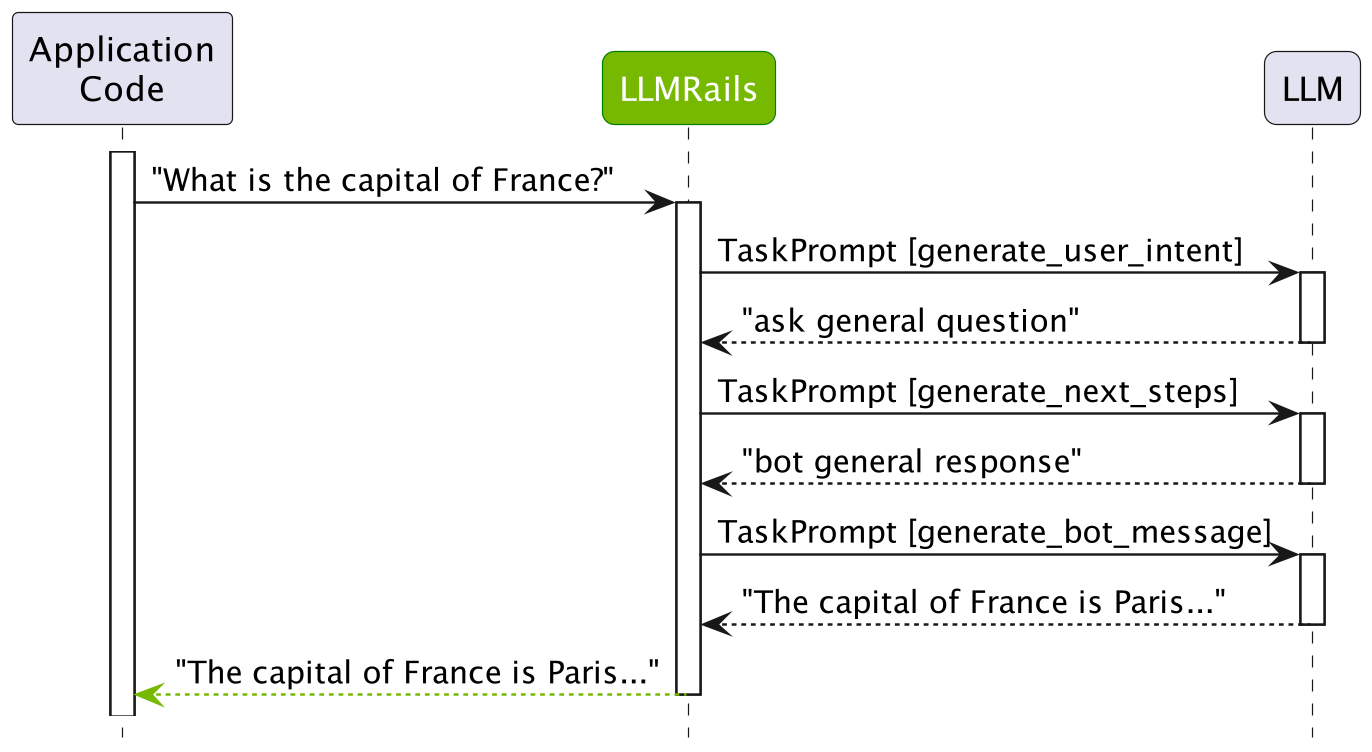
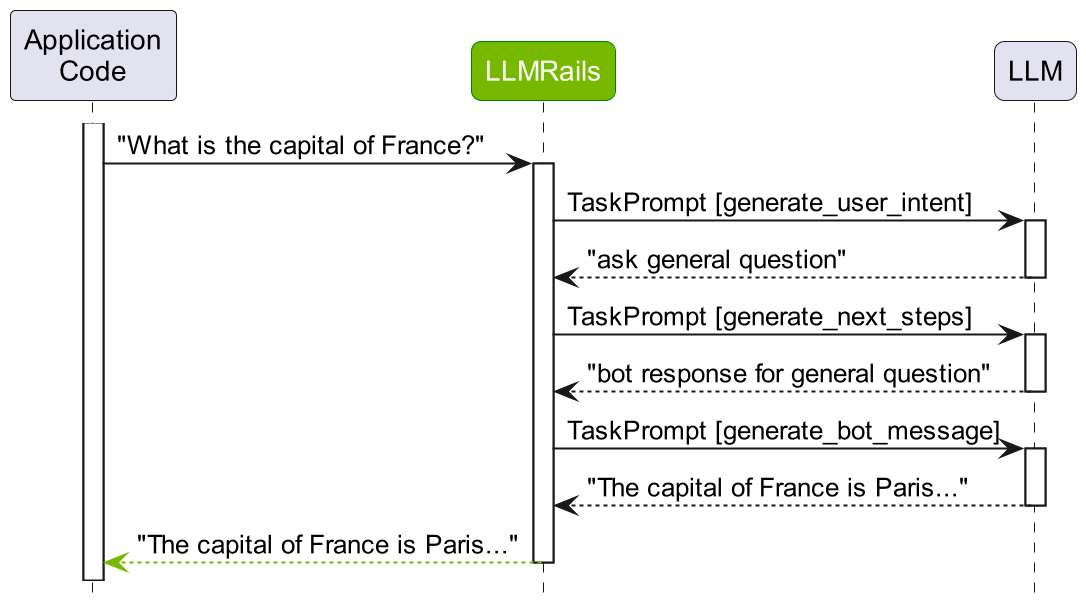
Various changes to the guides.

Changed region(s): [[0.0, 0.0, 0.9724, 0.9656], [0.4254, 0.0623, 0.5773, 0.1869], [0.9116, 0.0623, 1.0, 0.1869]]

diff --git a/docs/getting_started/4_input_rails/README.md b/docs/getting_started/4_input_rails/README.md
@@ -87,7 +87,9 @@ Summary: 1 LLM call(s) took 1.23 seconds and used 121 tokens.
 1. Task `general` took 1.23 seconds and used 121 tokens.
 ```
 
-We see that a single call was made to the LLM using the prompt for the task `general`. Let's take a closer look at the prompt and the completion:
+We see that a single call was made to the LLM using the prompt for the task `general`.
+In contrast to the [Core Colang Concepts guide](../2_core_colang_concepts), where the `generate_user_intent` task is used as a first phase for each user message, if no user canonical forms are defined for the Guardrails configuration the `general` task is used instead.
+Let's take a closer look at the prompt and the completion:
 
 ```python
 print(info.llm_calls[0].prompt)
@@ -115,7 +117,7 @@ As expected, the LLM is prompted with the general instructions and the user's in
 
 ## Jailbreak Attempts
 
-In the context of LLMs, Jailbreaking typically refers to finding ways to circumvent the built-in restrictions or guidelines set by the model's developers. These restrictions are usually in place for ethical, legal, or safety reasons. For example, what would happen if we instruct the InfoBot something like this:
+In the context of LLMs, jailbreaking typically refers to finding ways to circumvent the built-in restrictions or guidelines set by the model's developers. These restrictions are usually in place for ethical, legal, or safety reasons. For example, what would happen if we instruct the InfoBot something like this:
 
 ```python
 response = await rails.generate_async(messages=[{
@@ -157,7 +159,7 @@ define subflow check jailbreak
     stop
 ```
 
-The flows implementing input rails can call actions (e.g., `execute check_jailbreak`), instruct the bot to respond in a certain way (e.g., `bot inform cannot answer`) and stop the processing of the user's request.
+The flows implementing input rails can call actions (e.g., `execute check_jailbreak`), instruct the bot to respond in a certain way (e.g., `bot inform cannot answer`) and even stop any futher processing for the current user request.
 
 ## Using the Input Rails
 
@@ -210,7 +212,7 @@ print(info.llm_calls[0].completion)
 Yes
 ```
 
-The figure below depicts in more detailed how the jailbreak detection worked:
+The figure below depicts in more details how the jailbreak detection worked:
 
 <div align="center">
 <img src="../../_assets/puml/input_rails_fig_1.png" width="815">
@@ -263,7 +265,7 @@ Because the input rail was not triggered, the flow continued as usual.
 
 The final answer itself is not factually correct, but we'll fix that in the [Fact-checking Guide](#).
 
-## Test
+## Testing the Bot
 
 You can also test this configuration in an interactive mode using the NeMo Guardrails CLI Chat:
 

diff --git a/docs/getting_started/3_demo_use_case/README.md b/docs/getting_started/3_demo_use_case/README.md
@@ -5,13 +5,11 @@ Before moving further, let's pick a demo use case. Each month the US Bureau of L
 In the following guides, we will develop the guardrails configuration to cover various challenges we might face. If you're just getting started with NeMo Guardrails, it is recommended to go through them in order. Otherwise, you can jump to the guide that you are interested in.
 
 1. [Input moderation](../4_input_rails): make sure the input from the user is safe, before engaging with it.
-2. [Output moderation](#): make sure the output of the bot is not offensive and making sure it does not contain certain words.
-3. [Preventing off-topic questions](#): make sure that the bot responds only to a specific set of topics.
-4. [Retrieval Augmented Generation](#): integrate an external knowledge base.
-5. [Fact-checking](#): make sure the response is factually correct.
-6. [Hallucination detection](#): make sure the bot does not hallucinate.
-7. [Calling external tools](#): call external tools, e.g. for math computations.
-8. [General responses and chitchat](#): handle gracefully chitchat and other general questions.
+2. [Output moderation](../5_output_rails): make sure the output of the bot is not offensive and making sure it does not contain certain words.
+3. [Preventing off-topic questions](../6_topical_rails): make sure that the bot responds only to a specific set of topics.
+4. [Retrieval augmented generation](../7_rag): integrate an external knowledge base.
+5. [Fact-checking](../8_fact_checking): make sure the response is factually correct.
+6. [Calling external tools](../9_external_tools): call external tools, e.g. for math computations.
 
 ## Next
 

diff --git a/docs/getting_started/2_core_colang_concepts/README.md b/docs/getting_started/2_core_colang_concepts/README.md
@@ -291,7 +291,7 @@ Summary: 3 LLM call(s) took 1.90 seconds and used 1374 tokens.
 3. Task `generate_bot_message` took 0.50 seconds and used 612 tokens.
 ```
 
-Based on the above we can see that the `ask general question` canonical form is predicted for the user utterance "What is the capital of France?". Because there is no flow that matches it, the LLM is asked to predict the next step, which in this case is `bot general response`. And because there is no predefined response, the LLM is asked a third time to predict the final message.
+Based on the above we can see that the `ask general question` canonical form is predicted for the user utterance "What is the capital of France?". Because there is no flow that matches it, the LLM is asked to predict the next step, which in this case is `bot response for general question`. And because there is no predefined response, the LLM is asked a third time to predict the final message.
 
 <div align="center">
 <img src="../../_assets/puml/core_colang_concepts_fig_2.png" width="686">
